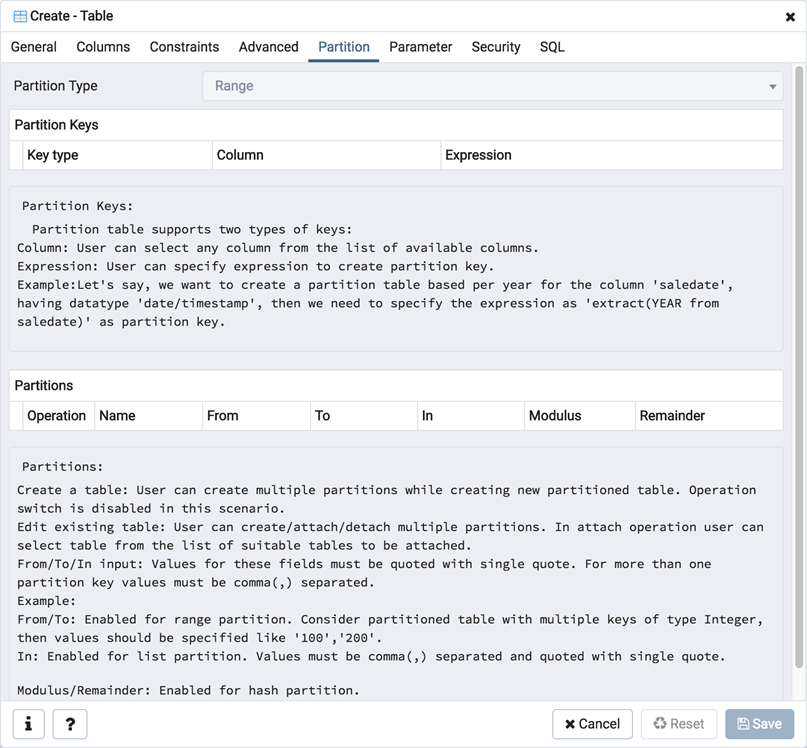
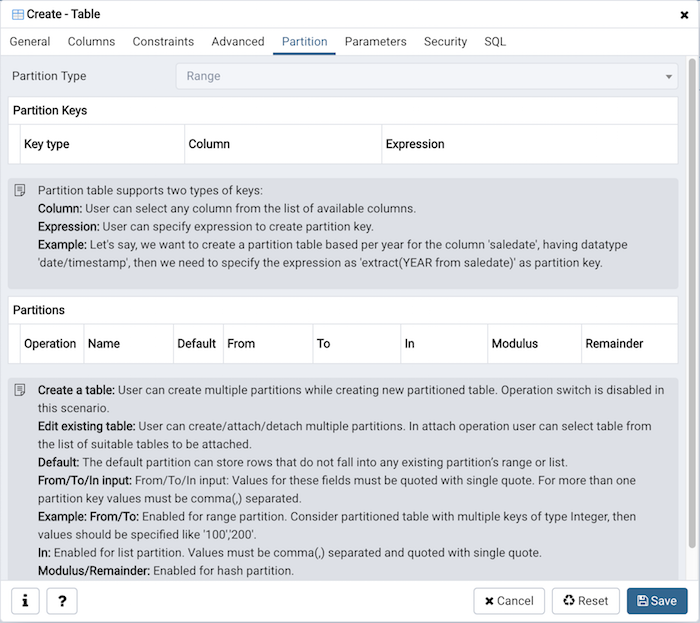
1) Added support for Default Partition. Fixes #3938 2) Ensure that record should be add/edited for root partition table with primary keys. Fixes #4104

diff --git a/web/pgadmin/browser/server_groups/servers/databases/schemas/tables/static/js/partition.utils.js b/web/pgadmin/browser/server_groups/servers/databases/schemas/tables/static/js/partition.utils.js
@@ -242,6 +242,7 @@ define('pgadmin.node.table_partition_utils', [
       oid: undefined,
       is_attach: false,
       partition_name: undefined,
+      is_default: undefined,
       values_from: undefined,
       values_to: undefined,
       values_in: undefined,
@@ -252,8 +253,8 @@ define('pgadmin.node.table_partition_utils', [
     schema: [{
       id: 'oid', label: gettext('OID'), type: 'text',
     },{
-      id: 'is_attach', label:gettext('Operation'), cell: 'switch',
-      type: 'switch', options: { 'onText': gettext('Attach'), 'offText': gettext('Create')},
+      id: 'is_attach', label:gettext('Operation'), cell: 'switch', type: 'switch',
+      options: {'onText': gettext('Attach'), 'offText': gettext('Create'), 'width': 65},
       cellHeaderClasses: 'width_percent_5',
       editable: function(m) {
         if (m instanceof Backbone.Model && m.isNew() && !m.top.isNew())
@@ -269,38 +270,52 @@ define('pgadmin.node.table_partition_utils', [
         return false;
       }, cellFunction: getPartitionCell,
     },{
+      id: 'is_default', label: gettext('Default'), type: 'switch', cell:'switch',
+      cellHeaderClasses: 'width_percent_5',  min_version: 110000,
+      options: {'onText': gettext('Yes'), 'offText': gettext('No')},
+      editable: function(m) {
+        if(m.handler && m.handler.top &&
+          m.handler.top.attributes &&
+          (m.handler.top.attributes.partition_type === 'range' ||
+          m.handler.top.attributes.partition_type === 'list') &&
+          m instanceof Backbone.Model && m.isNew() &&
+          m.handler.top.node_info.server.version >= 110000)
+          return true;
+        return false;
+      },
+    },{
       id: 'values_from', label: gettext('From'), type:'text',
-      cell:Backgrid.Extension.StringDepCell,
+      cell:Backgrid.Extension.StringDepCell, deps: ['is_default'],
       cellHeaderClasses: 'width_percent_15',
       editable: function(m) {
         if(m.handler && m.handler.top &&
           m.handler.top.attributes &&
           m.handler.top.attributes.partition_type === 'range' &&
-          m instanceof Backbone.Model && m.isNew())
+          m instanceof Backbone.Model && m.isNew() && m.get('is_default') !== true)
           return true;
         return false;
       },
     },{
       id: 'values_to', label: gettext('To'), type:'text',
-      cell:Backgrid.Extension.StringDepCell,
+      cell:Backgrid.Extension.StringDepCell, deps: ['is_default'],
       cellHeaderClasses: 'width_percent_15',
       editable: function(m) {
         if(m.handler && m.handler.top &&
           m.handler.top.attributes &&
           m.handler.top.attributes.partition_type === 'range' &&
-          m instanceof Backbone.Model && m.isNew())
+          m instanceof Backbone.Model && m.isNew() && m.get('is_default') !== true)
           return true;
         return false;
       },
     },{
       id: 'values_in', label: gettext('In'), type:'text',
-      cell:Backgrid.Extension.StringDepCell,
+      cell:Backgrid.Extension.StringDepCell, deps: ['is_default'],
       cellHeaderClasses: 'width_percent_15',
       editable: function(m) {
         if(m.handler && m.handler.top &&
           m.handler.top.attributes &&
           m.handler.top.attributes.partition_type === 'list' &&
-          m instanceof Backbone.Model && m.isNew())
+          m instanceof Backbone.Model && m.isNew() && m.get('is_default') !== true)
           return true;
         return false;
       },
@@ -331,6 +346,7 @@ define('pgadmin.node.table_partition_utils', [
     }],
     validate: function() {
       var partition_name = this.get('partition_name'),
+        is_default = this.get('is_default'),
         values_from = this.get('values_from'),
         values_to = this.get('values_to'),
         values_in = this.get('values_in'),
@@ -350,20 +366,20 @@ define('pgadmin.node.table_partition_utils', [
       }
 
       if (this.top.get('partition_type') === 'range') {
-        if (_.isUndefined(values_from) || _.isNull(values_from) ||
-          String(values_from).replace(/^\s+|\s+$/g, '') === '') {
+        if (is_default !== true && (_.isUndefined(values_from) ||
+         _.isNull(values_from) || String(values_from).replace(/^\s+|\s+$/g, '') === '')) {
           msg = gettext('For range partition From field cannot be empty.');
           this.errorModel.set('values_from', msg);
           return msg;
-        } else if (_.isUndefined(values_to) || _.isNull(values_to) ||
-          String(values_to).replace(/^\s+|\s+$/g, '') === '') {
+        } else if (is_default !== true && (_.isUndefined(values_to) || _.isNull(values_to) ||
+          String(values_to).replace(/^\s+|\s+$/g, '') === '')) {
           msg = gettext('For range partition To field cannot be empty.');
           this.errorModel.set('values_to', msg);
           return msg;
         }
       } else if (this.top.get('partition_type') === 'list') {
-        if (_.isUndefined(values_in) || _.isNull(values_in) ||
-          String(values_in).replace(/^\s+|\s+$/g, '') === '') {
+        if (is_default !== true && (_.isUndefined(values_in) || _.isNull(values_in) ||
+          String(values_in).replace(/^\s+|\s+$/g, '') === '')) {
           msg = gettext('For list partition In field cannot be empty.');
           this.errorModel.set('values_in', msg);
           return msg;

diff --git a/web/pgadmin/browser/server_groups/servers/databases/schemas/tables/static/js/table.js b/web/pgadmin/browser/server_groups/servers/databases/schemas/tables/static/js/table.js
@@ -960,17 +960,18 @@ define('pgadmin.node.table', [
           id: 'partition_key_note', label: gettext('Partition Keys'),
           type: 'note', group: 'partition', mode: ['create'],
           text: [
-            '<br>&nbsp;&nbsp;',
+            '<ul><li>',
             gettext('Partition table supports two types of keys:'),
-            '<br><ul><li>',
-            gettext('Column: User can select any column from the list of available columns.'),
             '</li><li>',
-            gettext('Expression: User can specify expression to create partition key.'),
-            '<br><p>',
-            gettext('Example'),
-            ':',
+            '<strong>', gettext('Column: '), '</strong>',
+            gettext('User can select any column from the list of available columns.'),
+            '</li><li>',
+            '<strong>', gettext('Expression: '), '</strong>',
+            gettext('User can specify expression to create partition key.'),
+            '</li><li>',
+            '<strong>', gettext('Example: '), '</strong>',
             gettext('Let\'s say, we want to create a partition table based per year for the column \'saledate\', having datatype \'date/timestamp\', then we need to specify the expression as \'extract(YEAR from saledate)\' as partition key.'),
-            '</p></li></ul>',
+            '</li></ul>',
           ].join(''),
           visible: function(m) {
             if(!_.isUndefined(m.node_info) && !_.isUndefined(m.node_info.server)
@@ -990,7 +991,7 @@ define('pgadmin.node.table', [
           canEdit: false, canDelete: true,
           customDeleteTitle: gettext('Detach Partition'),
           customDeleteMsg: gettext('Are you sure you wish to detach this partition?'),
-          columns:['is_attach', 'partition_name', 'values_from', 'values_to', 'values_in', 'values_modulus', 'values_remainder'],
+          columns:['is_attach', 'partition_name', 'is_default', 'values_from', 'values_to', 'values_in', 'values_modulus', 'values_remainder'],
           control: Backform.SubNodeCollectionControl.extend({
             row: Backgrid.PartitionRow,
             initialize: function() {
@@ -1053,22 +1054,28 @@ define('pgadmin.node.table', [
           id: 'partition_note', label: gettext('Partitions'),
           type: 'note', group: 'partition',
           text: [
-            '<ul>',
-            ' <li>',
-            gettext('Create a table: User can create multiple partitions while creating new partitioned table. Operation switch is disabled in this scenario.'),
+            '<ul><li>',
+            '<strong>', gettext('Create a table: '), '</strong>',
+            gettext('User can create multiple partitions while creating new partitioned table. Operation switch is disabled in this scenario.'),
             '</li><li>',
-            gettext('Edit existing table: User can create/attach/detach multiple partitions. In attach operation user can select table from the list of suitable tables to be attached.'),
+            '<strong>', gettext('Edit existing table: '), '</strong>',
+            gettext('User can create/attach/detach multiple partitions. In attach operation user can select table from the list of suitable tables to be attached.'),
             '</li><li>',
+            '<strong>', gettext('Default: '), '</strong>',
+            gettext('The default partition can store rows that do not fall into any existing partition’s range or list.'),
+            '</li><li>',
+            '<strong>', gettext('From/To/In input: '), '</strong>',
             gettext('From/To/In input: Values for these fields must be quoted with single quote. For more than one partition key values must be comma(,) separated.'),
-            '<br>',
-            gettext('Example'),
-            ':<ul><li>',
-            gettext('From/To: Enabled for range partition. Consider partitioned table with multiple keys of type Integer, then values should be specified like \'100\',\'200\'.'),
-            '</li><li> ',
-            gettext('In: Enabled for list partition. Values must be comma(,) separated and quoted with single quote.'),
-            '</li></ul></li></ul>',
-            gettext('Modulus/Remainder: Enabled for hash partition.'),
-            '</li></ul></li></ul>',
+            '</li><li>',
+            '<strong>', gettext('Example: From/To: '), '</strong>',
+            gettext('Enabled for range partition. Consider partitioned table with multiple keys of type Integer, then values should be specified like \'100\',\'200\'.'),
+            '</li><li>',
+            '<strong>', gettext('In: '), '</strong>',
+            gettext('Enabled for list partition. Values must be comma(,) separated and quoted with single quote.'),
+            '</li><li>',
+            '<strong>', gettext('Modulus/Remainder: '), '</strong>',
+            gettext('Enabled for hash partition.'),
+            '</li></ul>',
           ].join(''),
           visible: function(m) {
             if(!_.isUndefined(m.node_info) && !_.isUndefined(m.node_info.server)

diff --git a/web/pgadmin/browser/server_groups/servers/databases/schemas/tables/utils.py b/web/pgadmin/browser/server_groups/servers/databases/schemas/tables/utils.py
@@ -2184,16 +2184,23 @@ class BaseTableView(PGChildNodeView, BasePartitionTable):
                     partition_name = row['schema_name'] + '.' + row['name']
 
                 if data['partition_type'] == 'range':
-                    range_part = row['partition_value'].split(
-                        'FOR VALUES FROM (')[1].split(') TO')
-                    range_from = range_part[0]
-                    range_to = range_part[1][2:-1]
+                    if row['partition_value'] == 'DEFAULT':
+                        is_default = True
+                        range_from = None
+                        range_to = None
+                    else:
+                        range_part = row['partition_value'].split(
+                            'FOR VALUES FROM (')[1].split(') TO')
+                        range_from = range_part[0]
+                        range_to = range_part[1][2:-1]
+                        is_default = False
 
                     partitions.append({
                         'oid': row['oid'],
                         'partition_name': partition_name,
                         'values_from': range_from,
-                        'values_to': range_to
+                        'values_to': range_to,
+                        'is_default': is_default
                     })
                 elif data['partition_type'] == 'list':
                     range_part = \
@@ -2251,15 +2258,22 @@ class BaseTableView(PGChildNodeView, BasePartitionTable):
                 part_data['relispartition'] = True
                 part_data['name'] = row['partition_name']
 
-            if partitions['partition_type'] == 'range':
+            if 'is_default' in row and row['is_default'] and (
+                    partitions['partition_type'] == 'range' or
+                    partitions['partition_type'] == 'list'):
+                part_data['partition_value'] = 'DEFAULT'
+            elif partitions['partition_type'] == 'range':
                 range_from = row['values_from'].split(',')
                 range_to = row['values_to'].split(',')
 
-                from_str = ', '.join("{0}".format(item) for item in range_from)
-                to_str = ', '.join("{0}".format(item) for item in range_to)
+                from_str = ', '.join("{0}".format(item) for
+                                     item in range_from)
+                to_str = ', '.join("{0}".format(item) for
+                                   item in range_to)
 
-                part_data['partition_value'] = 'FOR VALUES FROM (' + from_str \
-                                               + ') TO (' + to_str + ')'
+                part_data['partition_value'] = 'FOR VALUES FROM (' +\
+                                               from_str + ') TO (' +\
+                                               to_str + ')'
 
             elif partitions['partition_type'] == 'list':
                 range_in = row['values_in'].split(',')

diff --git a/web/pgadmin/browser/server_groups/servers/databases/schemas/tables/tests/test_table_add.py b/web/pgadmin/browser/server_groups/servers/databases/schemas/tables/tests/test_table_add.py
@@ -31,6 +31,14 @@ class TableAddTestCase(BaseTestGenerator):
               partition_type='range'
               )
          ),
+        ('Create Range partitioned table with 1 default and 2'
+         ' value based partition',
+         dict(url='/browser/table/obj/',
+              server_min_version=110000,
+              partition_type='range',
+              is_default=True
+              )
+         ),
         ('Create List partitioned table with 2 partitions',
          dict(url='/browser/table/obj/',
               server_min_version=100000,
@@ -215,6 +223,24 @@ class TableAddTestCase(BaseTestGenerator):
                       'is_attach': False,
                       'partition_name': 'emp_2011'
                       }]
+                if hasattr(self, 'is_default'):
+                    data['partitions'] = \
+                        [{'values_from': "'2010-01-01'",
+                          'values_to': "'2010-12-31'",
+                          'is_attach': False,
+                          'partition_name': 'emp_2010_def'
+                          },
+                         {'values_from': "'2011-01-01'",
+                          'values_to': "'2011-12-31'",
+                          'is_attach': False,
+                          'partition_name': 'emp_2011_def'
+                          },
+                         {'values_from': "",
+                          'values_to': "",
+                          'is_attach': False,
+                          'is_default': True,
+                          'partition_name': 'emp_2012_def'
+                          }]
                 data['partition_keys'] = \
                     [{'key_type': 'column', 'pt_column': 'DOJ'}]
             elif self.partition_type == 'list':

diff --git a/docs/en_US/release_notes_4_6.rst b/docs/en_US/release_notes_4_6.rst
@@ -14,5 +14,7 @@ Features
 Bug fixes
 *********
 
+| `Bug #3938 <https://redmine.postgresql.org/issues/3938>`_ - Added support for Default Partition.
+| `Bug #4104 <https://redmine.postgresql.org/issues/4104>`_ - Ensure that record should be add/edited for root partition table with primary keys.
 | `Bug #4138 <https://redmine.postgresql.org/issues/4138>`_ - Fix an issue where the dropdown becomes misaligned/displaced.
 | `Bug #4161 <https://redmine.postgresql.org/issues/4161>`_ - Ensure that parameters of procedures for EPAS server 10 and below should be set/reset properly.

diff --git a/docs/en_US/table_dialog.rst b/docs/en_US/table_dialog.rst
@@ -442,6 +442,7 @@ icon (+) to add each partition:
 * Move the *Operation* switch to *attach* to attach the partition, by default it
   is *create*.
 * Use the *Name* field to add the name of the partition.
+* If partition type is Range or List then *Default* field will be enabled.
 * If partition type is Range then *From* and *To* fields will be enabled.
 * If partition type is List then *In* field will be enabled.
 * If partition type is Hash then *Modulus* and *Remainder* fields will be
